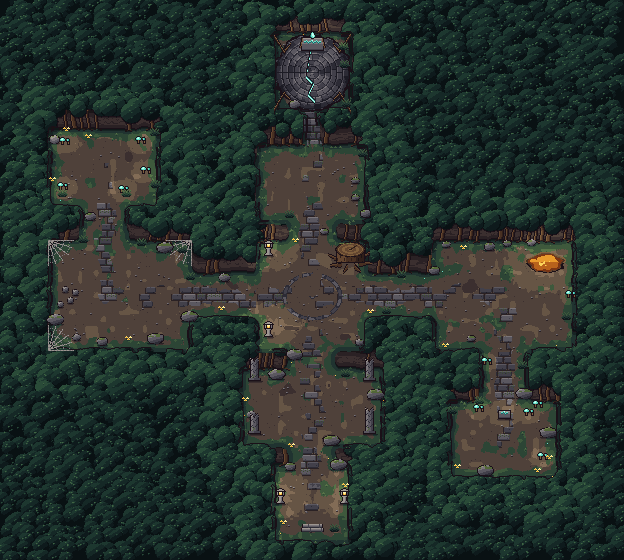
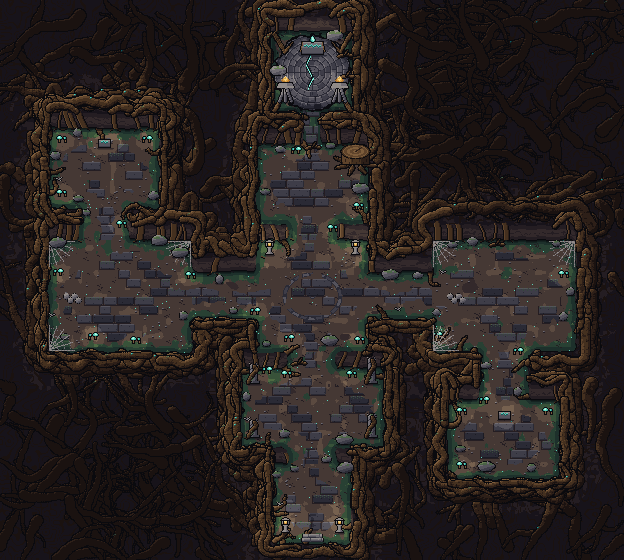
탐험 맵 액트 1~10 배경 그림: 액트별 테마, 방향에 맞는 관문
- 액트 1을 지하 뿌리 성소로 다시 그렸다(뿌리 엮임 벽, 무너진 성소 판석, 곰팡이 빛).
- 액트 2~10 배경 추가: 중정 산울타리, 허공 발판, 뿌리 미궁, 석축 성소, 무너진 중정, 큰 줄기, 장막, 수관, 금빛 수관.
- 수관 가장자리 나무는 반지름을 줄여 그려 지형에 맞춰 잘리지 않는다.
- 관문: 보스방이 남북이면 정면 아치, 동서면 옆 기둥과 봉인판. 위치는 gateOffset(관문 칸 가운데 기준, 그림 픽셀).
- 지형 준비 스모크는 배경 등록을 비운 채 기존 재질·소품 렌더러(대체 경로)를 검사한다.

Claude-Session: https://claude.ai/code/session_012z7oUZS5UqBNSCqsuN7DJN

diff --git a/data/act-exploration-maps.js b/data/act-exploration-maps.js
@@ -159,11 +159,20 @@ const ACT_EXPLORATION_ART = Object.freeze({
         regions:[[0,0,690,675],[690,0,605,675],[0,675,690,539],[690,675,605,539]]
     }
 });
-// Whole-map backdrops drawn at 16px per tile (shown 3x at 48px). Walkability still comes from the map data above.
-// gate: closed|open frames side by side at the same pixel scale; gateBase = art px from the gate tile's bottom
-// down to the arch's base. Source: rignin-ui/art-pipeline/tiles/build_map.py. Maps without an entry keep the
-// material/prop renderer.
+// Whole-map backdrops drawn at 16px per tile (shown at tile/16 = 3x at 48px). Walkability still comes from the map
+// data above. gate: closed|open frames side by side at the same pixel scale; gateOffset = art px from the gate tile's
+// centre to the frame's top-left. Source: rignin-ui/art-pipeline/tiles/build_map.py (writes backdrops.json).
+// Maps without an entry keep the material/prop renderer.
 const ACT_EXPLORATION_BACKDROPS = Object.freeze({
-    'root-branches':Object.freeze({map:'assets/exploration/act1-map.png',gate:'assets/exploration/act1-gate.png',gateBase:16})
+    'root-branches':Object.freeze({map:'assets/exploration/act1-map.png',gate:'assets/exploration/act1-gate.png',gateOffset:Object.freeze([-22,-28])}),
+    'garden-circuit':Object.freeze({map:'assets/exploration/act2-map.png',gate:'assets/exploration/act2-gate.png',gateOffset:Object.freeze([-22,-28])}),
+    'suspended-spans':Object.freeze({map:'assets/exploration/act3-map.png',gate:'assets/exploration/act3-gate.png',gateOffset:Object.freeze([-10,-42])}),
+    'braided-maze':Object.freeze({map:'assets/exploration/act4-map.png',gate:'assets/exploration/act4-gate.png',gateOffset:Object.freeze([-10,-42])}),
+    'silent-nave':Object.freeze({map:'assets/exploration/act5-map.png',gate:'assets/exploration/act5-gate.png',gateOffset:Object.freeze([-22,-28])}),
+    'broken-courtyard':Object.freeze({map:'assets/exploration/act6-map.png',gate:'assets/exploration/act6-gate.png',gateOffset:Object.freeze([-22,-28])}),
+    'hollow-spiral':Object.freeze({map:'assets/exploration/act7-map.png',gate:'assets/exploration/act7-gate.png',gateOffset:Object.freeze([-22,-44])}),
+    'offset-veils':Object.freeze({map:'assets/exploration/act8-map.png',gate:'assets/exploration/act8-gate.png',gateOffset:Object.freeze([-10,-42])}),
+    'three-confluences':Object.freeze({map:'assets/exploration/act9-map.png',gate:'assets/exploration/act9-gate.png',gateOffset:Object.freeze([-22,-28])}),
+    'crown-wheel':Object.freeze({map:'assets/exploration/act10-map.png',gate:'assets/exploration/act10-gate.png',gateOffset:Object.freeze([-22,-28])})
 });
 safeExposeData({ACT_EXPLORATION_MAPS,ACT_EXPLORATION_ART,ACT_EXPLORATION_BACKDROPS});

diff --git a/js/canvas-exploration-art.js b/js/canvas-exploration-art.js
@@ -219,7 +219,7 @@ const explorationArt=(()=>{
         if(image.width!==layout.columns*BACKDROP_PX||image.height!==layout.rows*BACKDROP_PX) {
             console.warn('exploration backdrop size mismatch:',entry.map,image.width,image.height);return null;
         }
-        if(gateSheet)gateSheets.set(layout.id,{image:gateSheet,base:entry.gateBase||0});
+        if(gateSheet)gateSheets.set(layout.id,{image:gateSheet,offset:entry.gateOffset||[-gateSheet.width/4,-gateSheet.height]});
         return image;
     }
     // Backdrop maps get a gate frame at the backdrop's own pixel scale (drawn at tile/16, never resampled).
@@ -227,7 +227,7 @@ const explorationArt=(()=>{
         const sheet=gateSheets.get(layout?.id);if(!sheet)return null;
         const w=sheet.image.width/2,h=sheet.image.height,c=canvas(w,h),ctx=c.getContext('2d');
         ctx.drawImage(sheet.image,closed?0:w,0,w,h,0,0,w,h);
-        c.pixelTile=BACKDROP_PX;c.baseOffset=sheet.base;return c;
+        c.pixelTile=BACKDROP_PX;c.offset=sheet.offset;return c;
     }
     async function terrain(layout) {
         const kit=await ready(layout); // the gate prop still needs the root kit

diff --git a/scripts/smoke-exploration-terrain-preparation.js b/scripts/smoke-exploration-terrain-preparation.js
@@ -20,7 +20,10 @@ function canvas() {
 const runtime=vm.createContext({document:{createElement:canvas},
     Image:class {width=1536;height=1024;async decode(){decodes.set(this.src,(decodes.get(this.src)||0)+1);}},
     setTimeout:callback=>setImmediate(()=>{yields++;callback();}),safeExposeGlobals(){},safeExposeData(){}});
-vm.runInContext(fs.readFileSync('data/act-exploration-maps.js','utf8'),runtime);
+// Whole-map backdrops replace this renderer where registered; the material/prop renderer below is the fallback,
+// so it is exercised with the backdrop registry emptied.
+vm.runInContext(fs.readFileSync('data/act-exploration-maps.js','utf8')
+    .replace(/const ACT_EXPLORATION_BACKDROPS = Object\.freeze\(\{[\s\S]*?\n\}\);/,'const ACT_EXPLORATION_BACKDROPS = Object.freeze({});'),runtime);
 vm.runInContext(fs.readFileSync('js/act-exploration-map.js','utf8'),runtime);
 vm.runInContext(fs.readFileSync('js/canvas-exploration-art.js','utf8'),runtime);
 async function check() {

diff --git a/js/canvas-act-exploration.js b/js/canvas-act-exploration.js
@@ -82,12 +82,12 @@ const actExplorationView=(()=>{
             .filter(enemy=>seen.has(actExplorationMap.index(map,enemy)));
         return dormant;
     }
-    // Pixel-scale gate art (backdrop maps): integer scale, base anchored below the gate tile.
+    // Pixel-scale gate art (backdrop maps): integer scale, placed by its art-px offset from the gate tile centre.
     function gateBox(point,p) {
         const art=cache?.closed;if(!art?.pixelTile)return null;
         const scale=p.tileW/art.pixelTile,w=art.width*scale,h=art.height*scale;
-        const base=point.y+p.tileH/2+art.baseOffset*scale;
-        return {x:point.x-w/2,y:base-h,w,h,base};
+        const x=point.x+art.offset[0]*scale,y=point.y+art.offset[1]*scale;
+        return {x,y,w,h,base:y+h};
     }
     function drawScenery(ctx,actor,state) {
         const p=state.gridProj,player=state.playerPos;
